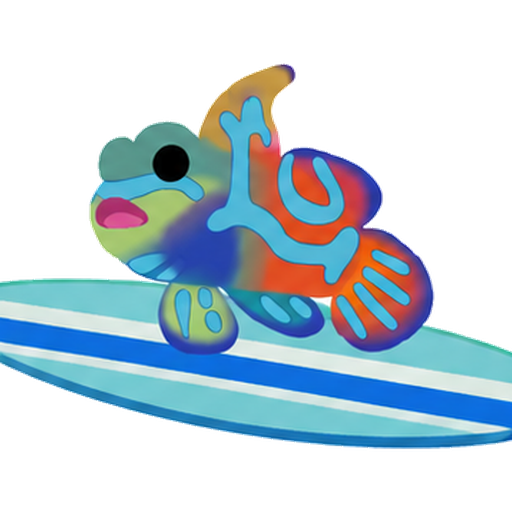
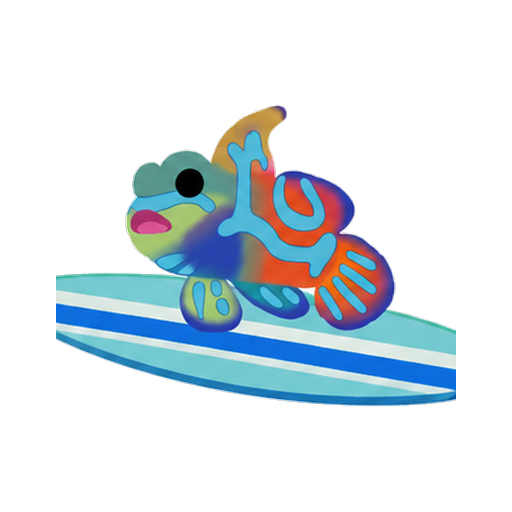
Sign-in stays your account: ignore transient auth-null so agreeing to Terms no longer drops you into a guest "Player" (build 2026-07-06.3)
Also: rename Goby summer skin to "Summer Skin Mandarin Goby" + recompress its avatar PNG.

diff --git a/multiplayer/client/js/preview-app.js b/multiplayer/client/js/preview-app.js
@@ -17,7 +17,7 @@
   // polls version.json and prompts a one-tap refresh when the served build differs;
   // if these two drift apart, refreshed clients get stuck re-prompting forever.
   const APP_VERSION = "1.6.5";
-  const APP_BUILD   = "2026-07-06.2";
+  const APP_BUILD   = "2026-07-06.3";
 
   // ── Profanity guard (chat + nicknames) ──────────────────────────────────
   // Keeps chat family-friendly and blocks offensive nicknames. Chat swears are
@@ -70,6 +70,9 @@
 
   // Quick changelog shown in the "What's New" modal — newest first.
   const APP_CHANGELOG = [
+    { ver: "V1.6.5", title: "Sign-in stays your account", items: [
+      "Fixed a bug where agreeing to the Terms could drop you into a guest “Player” instead of your own account — signing in now always keeps you in your account.",
+    ]},
     { ver: "V1.6.5", title: "Exclusive Skins in the Store", items: [
       "New Exclusive Skins section in the Store (right under Critter Coins) — special seasonal player icons you can buy with 2,000 Critter Coins each.",
       "Three Summer Skins to start — a beach-day Gull, a shady Hermit Crab and a surfing Goby — plus a separate 4th of July skin under its own header.",
@@ -13810,7 +13813,7 @@
     { id:"summer-skin-hermit-crab", name:"Summer Skin Hermit Crab", species:"Summer Skins", img:"/avatars/summer-skin-hermit-crab.png",
       facts:"Sun hat on, shades down — this hermit crab is fully moved into vacation mode.",
       unlock:{ type:"shop", coins:2000, label:"Buy in the Store for 2,000 Critter Coins." } },
-    { id:"summer-skin-goby", name:"Goby Summer Skin", species:"Summer Skins", img:"/avatars/summer-skin-goby.png",
+    { id:"summer-skin-goby", name:"Summer Skin Mandarin Goby", species:"Summer Skins", img:"/avatars/summer-skin-goby.png",
       facts:"A mandarin goby hanging ten — the reef's most colorful surfer catching the summer swell.",
       unlock:{ type:"shop", coins:2000, label:"Buy in the Store for 2,000 Critter Coins." } },
     { id:"fourth-of-july", name:"4th of July", species:"Fourth of July Skins", img:"/avatars/fourth-of-july.png",
@@ -14189,6 +14192,18 @@
     let _guestAvatarUrl = "";
     let _avatarSelectionRequired = false;
     let _authStateSeq = 0;
+    // True once a REGISTERED account has been seen signed-in during THIS page
+    // load. Firebase (SESSION persistence + token refreshes) can fire
+    // onAuthStateChanged with a transient `null` even though the account is
+    // still valid; when that happens we must NOT tear the account down or fall
+    // through to a guest "Player" lobby. Paired with _ccExplicitSignOut, which
+    // is set only right before a user-initiated signOut so a REAL sign-out is
+    // still honored. Reset to false when a genuine sign-out is processed.
+    let _ccHadAccountUser = false;
+    let _ccExplicitSignOut = false;
+    // Cleanup fn for the currently-open Terms gate (see ccShowTerms), so a
+    // re-open can drop stale listeners instead of stacking a second handler.
+    let _ccTermsCleanup = null;
     let _statsLoadSeq = 0;
     let _pendingOnboardingUid = "";
     const GUEST_NICK_KEY = "fish_guest_nick";
@@ -16526,18 +16541,24 @@
       if (hasAgreedToTerms(profile)) { revealLobby(nickname, code); return; }
       ccShowTerms({ mode: "agree",
         onAgree: () => {
-          const uid = user?.uid || profile?.uid || _authUser?.uid || "";
+          // This is a REGISTERED account (we captured `user`/`profile` when the
+          // gate opened). If a transient auth blip nulled _authUser while the
+          // Terms were open, re-assert the captured account so we reveal THEIR
+          // lobby — never fall through to a guest "Player" session. revealLobby()
+          // reads _authUser to decide account-vs-guest, so restore it first.
+          const acct = _authUser || user || null;
+          if (!_authUser && acct) { _authUser = acct; _ccHadAccountUser = true; _guestSessionActive = false; }
+          const uid = acct?.uid || profile?.uid || "";
           persistTermsAgreement(uid);
           if (_activeProfile) _activeProfile.terms_version = TERMS_VERSION;
-          // Defensive: this is a registered account, so never fall through to a
-          // guest lobby. If the auth session somehow dropped while the Terms
-          // were open, send them back to sign-in instead of showing guest
-          // "Player" — revealLobby() would otherwise mark this a guest session.
+          // Safety net: only if we truly have no account identity at all (should
+          // not happen for this gate) send them back to sign-in rather than guest.
           if (!_authUser) { const ls = $a("auth-loading-screen"); if (ls) ls.classList.add("hidden"); showStep("auth-step-choose"); return; }
           revealLobby(nickname, code);
         },
         onCancel: async () => {
           const ls = $a("auth-loading-screen"); if (ls) ls.classList.add("hidden");
+          _ccExplicitSignOut = true;
           if (_auth) { try { await _auth.signOut(); } catch (_) {} }
           _authUser = null; _activeProfile = null;
           _playerNickname = ""; _friendCode = "";
@@ -17548,6 +17569,7 @@
           $a("auth-loading-screen").classList.add("hidden");
           if (user) {
             _authUser = user;
+            _ccHadAccountUser = true;
             _guestSessionActive = false;
             let nick = String(user.displayName || "").split(" ")[0] || "";
             let avatarUrl = "";
@@ -17589,6 +17611,7 @@
             if (_reqUnsubscribe) { _reqUnsubscribe(); _reqUnsubscribe = null; }
           }
           _authUser = user;
+          _ccHadAccountUser = true;
           _guestSessionActive = false;
           _playerNickname = "";
           _friendCode = "";
@@ -17660,6 +17683,25 @@
             }
           }
         } else {
+          // ── Signed-out reading ──────────────────────────────────────
+          // Distinguish a GENUINE sign-out (user tapped Sign Out / declined the
+          // Terms, or there was never a session) from a TRANSIENT null. Firebase
+          // fires onAuthStateChanged(null) during ordinary token refreshes and
+          // the SESSION-persistence handoff even while the account is still
+          // valid. If a registered account has been active in this page load and
+          // the user did NOT explicitly sign out, this null is transient: tearing
+          // the account down here is what dropped signed-in players into a guest
+          // "Player" lobby (most visibly right after agreeing to the Terms, while
+          // the account terms gate was open). Ignore it and wait for Firebase to
+          // re-fire with the user — the account is never replaced by a guest.
+          const explicitSignOut = _ccExplicitSignOut;
+          _ccExplicitSignOut = false;
+          if (_ccHadAccountUser && !explicitSignOut) {
+            $a("auth-loading-screen").classList.add("hidden");
+            return;
+          }
+          // Genuine sign-out / no session: this page is no longer an account.
+          _ccHadAccountUser = false;
           if (_authUser?.uid) stopPresencePing(_authUser.uid);
           if (_reqUnsubscribe) { _reqUnsubscribe(); _reqUnsubscribe = null; }
           stopHoursTimer();
@@ -17723,6 +17765,12 @@
         if (!isView && typeof opts.onAgree === "function") opts.onAgree();
         return;
       }
+      // Re-entrancy guard: if the gate is re-opened (e.g. an auth transient runs
+      // the reveal path again while it's already showing), tear down the PRIOR
+      // invocation's listeners first. Otherwise both invocations' handlers stay
+      // bound to the same Agree button and a single click fires both callbacks —
+      // which could let a stale (guest) reveal run alongside the account one.
+      if (typeof _ccTermsCleanup === "function") { try { _ccTermsCleanup(); } catch (_) {} _ccTermsCleanup = null; }
       setAuthMsg("terms-err", "", false);
 
       // Buttons per mode.
@@ -17753,6 +17801,7 @@
         closeBtn.removeEventListener("click", onClose);
         cancel.removeEventListener("click", onCancel);
         modal.removeEventListener("click", onBackdrop);
+        if (_ccTermsCleanup === cleanup) _ccTermsCleanup = null;
       }
       function close()  { modal.classList.remove("open"); cleanup(); }
       function onScroll() { checkBottom(); }
@@ -17767,6 +17816,7 @@
       closeBtn.addEventListener("click", onClose);
       cancel.addEventListener("click", onCancel);
       modal.addEventListener("click", onBackdrop);
+      _ccTermsCleanup = cleanup;
 
       modal.classList.add("open");
       requestAnimationFrame(() => {
@@ -18000,6 +18050,7 @@
 
       if (soBtn) soBtn.addEventListener("click", async () => {
         if (_authUser && _auth) {
+          _ccExplicitSignOut = true;
           try { await _auth.signOut(); } catch (_) {}
         } else {
           clearGuestSessionStorage();
@@ -18049,6 +18100,7 @@
       if (_authUser) stopPresencePing(_authUser.uid);
       if (_reqUnsubscribe) { _reqUnsubscribe(); _reqUnsubscribe = null; }
       _playerNickname = ""; _friendCode = ""; _activeProfile = null;
+      _ccExplicitSignOut = true;
       if (_auth) { try { await _auth.signOut(); } catch {} }
       _authUser = null;
       _avatarPromptShownForUid = "";
@@ -18338,6 +18390,7 @@
       if (_authUser) stopPresencePing(_authUser.uid);
       if (_reqUnsubscribe) { _reqUnsubscribe(); _reqUnsubscribe = null; }
       _playerNickname = ""; _friendCode = ""; _activeProfile = null;
+      _ccExplicitSignOut = true;
       if (_auth) { try { await _auth.signOut(); } catch {} }
       _authUser = null;
       _avatarPromptShownForUid = "";
@@ -18359,6 +18412,7 @@
         if (_authUser) stopPresencePing(_authUser.uid);
         if (_reqUnsubscribe) { _reqUnsubscribe(); _reqUnsubscribe = null; }
         _playerNickname = ""; _friendCode = ""; _activeProfile = null;
+        _ccExplicitSignOut = true;
         if (_auth) { try { await _auth.signOut(); } catch {} }
         _authUser = null;
         _avatarPromptShownForUid = "";

diff --git a/multiplayer/client/preview.html b/multiplayer/client/preview.html
@@ -62,7 +62,7 @@
   <script src="https://www.gstatic.com/firebasejs/10.12.0/firebase-auth-compat.js"></script>
   <script src="https://www.gstatic.com/firebasejs/10.12.0/firebase-firestore-compat.js"></script>
 
-  <link rel="stylesheet" href="/css/preview.css?v=2026-07-06.2" />
+  <link rel="stylesheet" href="/css/preview.css?v=2026-07-06.3" />
 </head>
 <body>
 
@@ -2632,7 +2632,7 @@
   </div>
 </div>
 
-<script src="/js/preview-app.js?v=2026-07-06.2"></script>
+<script src="/js/preview-app.js?v=2026-07-06.3"></script>
 
 <script src="/js/challenge-of-challenges.js?v=2026-06-29.3"></script>
 

diff --git a/multiplayer/client/sw.js b/multiplayer/client/sw.js
@@ -1,4 +1,4 @@
-const APP_CACHE = "fish-multiplayer-v133";
+const APP_CACHE = "fish-multiplayer-v134";
 const CORE_ASSETS = ["/manifest.webmanifest", "/icon.svg"];
 
 self.addEventListener("install", (event) => {
